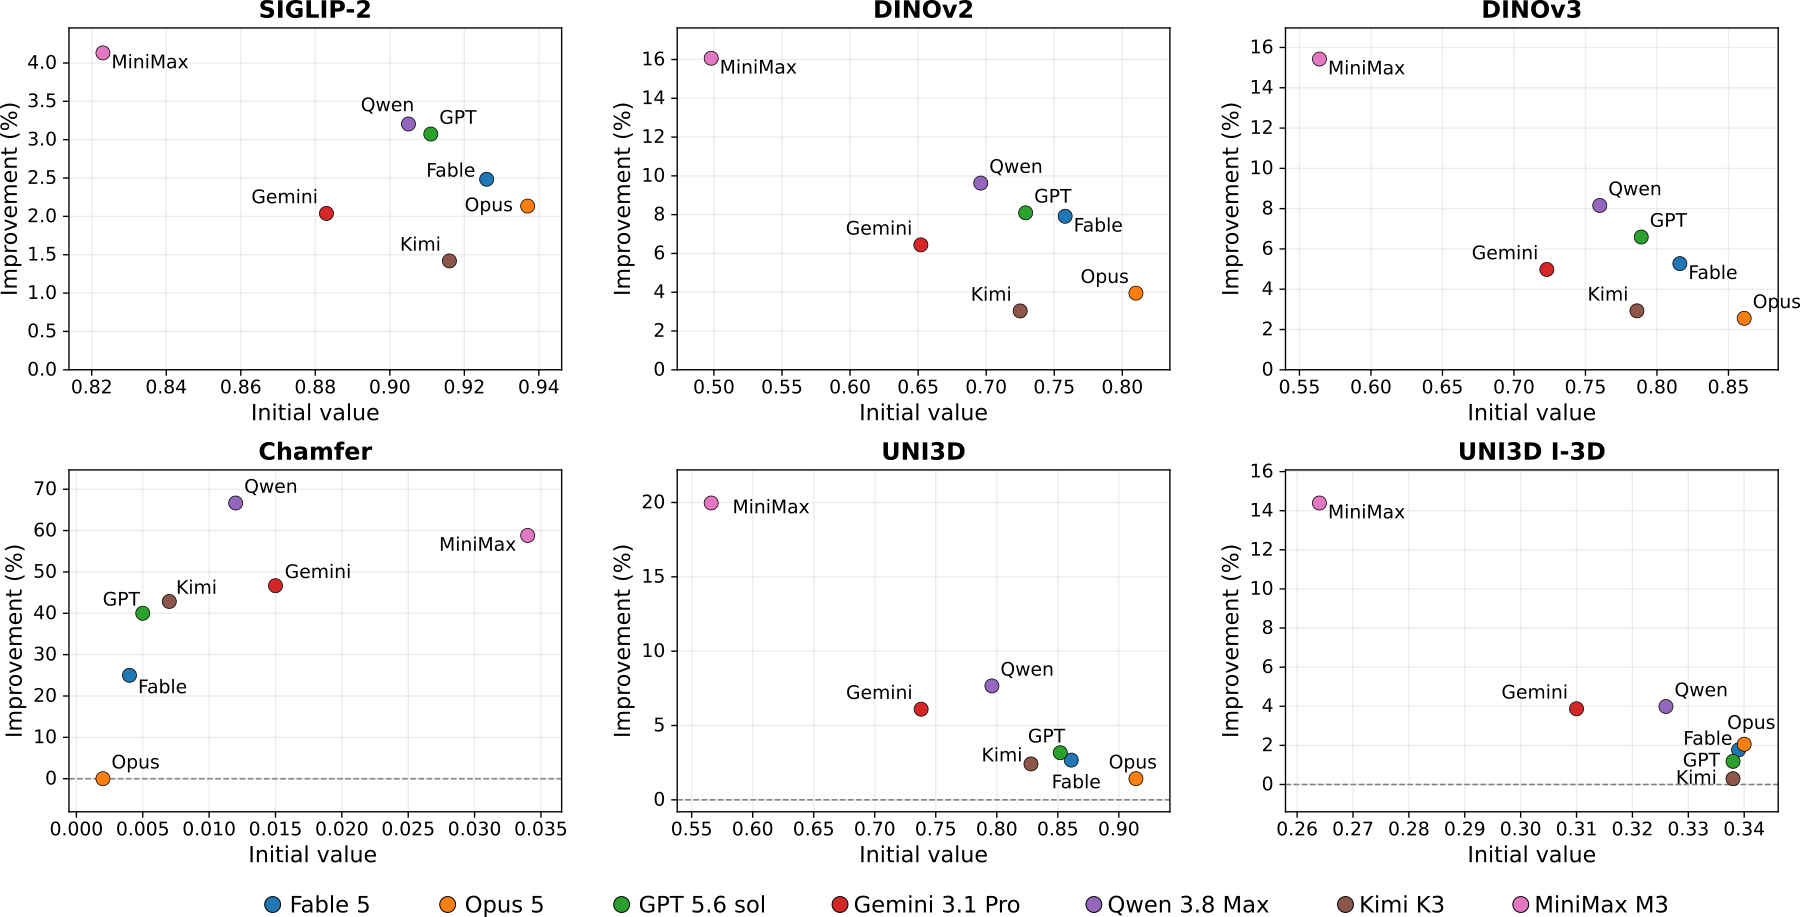
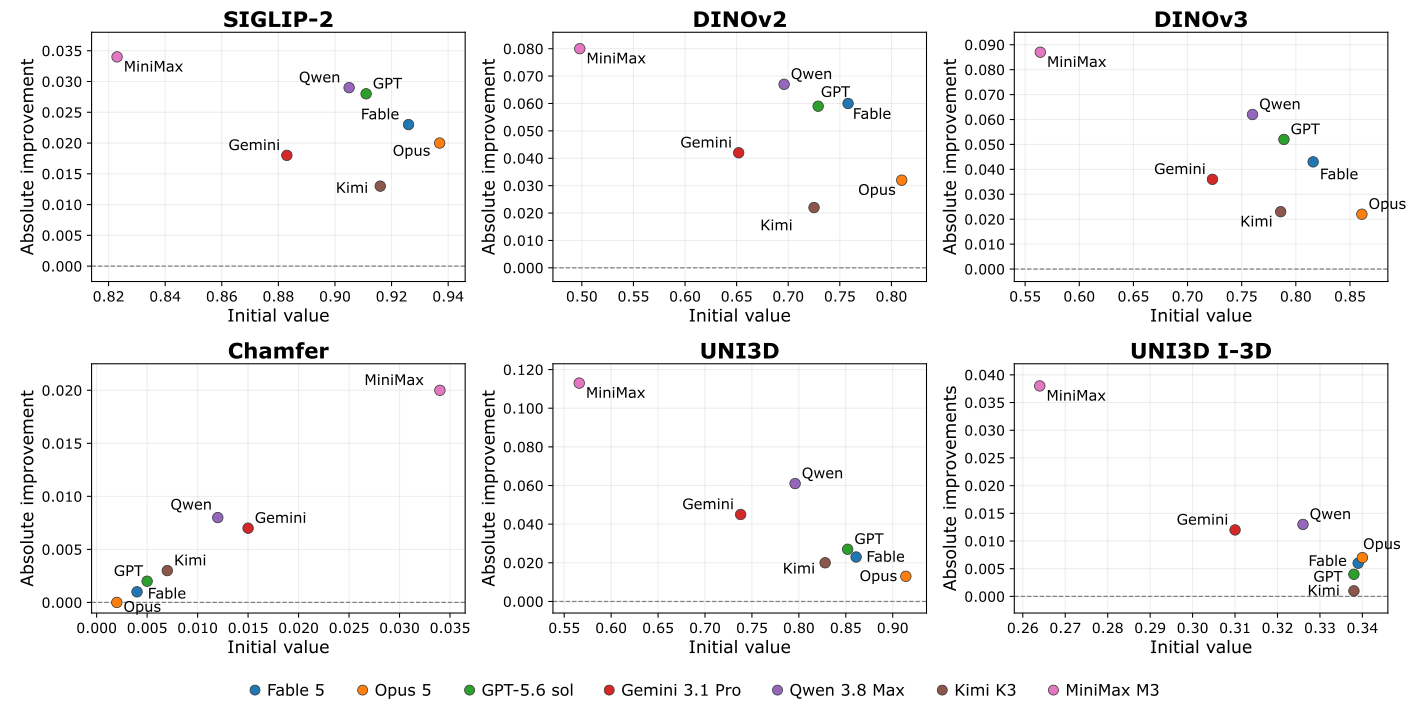
update page

diff --git a/index.html b/index.html
@@ -30,8 +30,10 @@
                    <sup>3</sup> Télécom Paris</div>
             <div class="buttons">
                 <a aria-disabled="true" class="btn disabled" id="paperLink">Paper <span>coming soon</span></a>
-                <a aria-disabled="true" class="btn disabled" id="codeLink">Code <span>coming soon</span></a>
-                <a aria-disabled="true" class="btn disabled" id="dataLink">Benchmark <span>coming soon</span></a>
+                <a aria-disabled="true" class="btn" id="codeLink"
+                    href="https://github.com/llada60/3DHarnessBench">Code</a>
+                <a aria-disabled="true" class="btn" id="dataLink"
+                    href="https://huggingface.co/datasets/lingada/3DHarnessBench">Benchmark</a>
             </div>
             <p class="tldr"><strong>TL;DR:</strong> We introduce 3DHarnessBench, a benchmark for agentic 3D-to-code
                 reconstruction that evaluates how frontier VLMs exploit visual and geometric evidence to reconstruct a
@@ -523,9 +525,9 @@
                 <article class="metric-card">
                     <h4>Explicit Measurements Ablation</h4>
                     <ul>
-                        <li>Global: provide global measurements (e.g., bounding box, volume, surface area).</li>
+                        <li>Global: provide global measurements (e.g., bounding box, dimensions, center).</li>
                         <li>Parts: provide part-level measurements (e.g., part centers, dimensions, components,
-                            repetition statistics).</li>
+                            repetition statistics) using a GPT-5.6 Sol-authored measurement program.</li>
                     </ul>
                 </article>
             </div>
@@ -573,6 +575,8 @@
                             </tr>
                         </tbody>
                     </table>
+                    <p class="table-note">Camera pose information significantly improves reconstruction quality, while
+                        background grid has a limited impact on the geometry metrics.</p>
                 </div>
                 <div class="mini-table-card">
                     <h4>Explicit Measurements · Opus 5</h4>
@@ -617,6 +621,8 @@
                             </tr>
                         </tbody>
                     </table>
+                    <p class="table-note">The parts measurements improve the reconstruction quality, especially in terms
+                        of topology and geometry.</p>
                 </div>
             </div>
             <h3 class="subhead">Active Visual Anlysis</h3>
@@ -939,7 +945,7 @@
                         </tbody>
                     </table>
                 </div>
-                <p class="table-note">Betti-number errors are normalized L1 components (↓). Cost is the CLI-reported
+                <p class="table-note">Cost is the CLI-reported
                     session cost where available; * denotes token-based estimates. “–” means not reported or not
                     applicable.</p>
             </div>

diff --git a/README.md b/README.md
@@ -1,36 +1,1 @@
 # 3DHarnessBench Project Page
-
-Static project page following the section order of the SceneGen project page:
-
-1. Hero / title / authors / links
-2. TL;DR and Abstract
-3. Interactive Results Gallery
-4. Overview
-5. Architecture
-6. Results
-7. Acknowledgements
-8. BibTeX
-
-## GitHub Pages
-
-All site files live in the repository root. Configure GitHub Pages as:
-
-**Settings → Pages → Deploy from a branch → `page` / `/(root)`**
-
-The `.nojekyll` marker keeps this dependency-free site on the plain static-file path.
-
-Published site: <https://llada60.github.io/3DHarnessBench/>
-
-## Public links
-
-Edit `config.js`:
-
-```js
-window.PROJECT_LINKS = {
-  paper: "https://...",
-  code: "https://...",
-  data: "https://..."
-};
-```
-
-The page has no external runtime dependencies.
